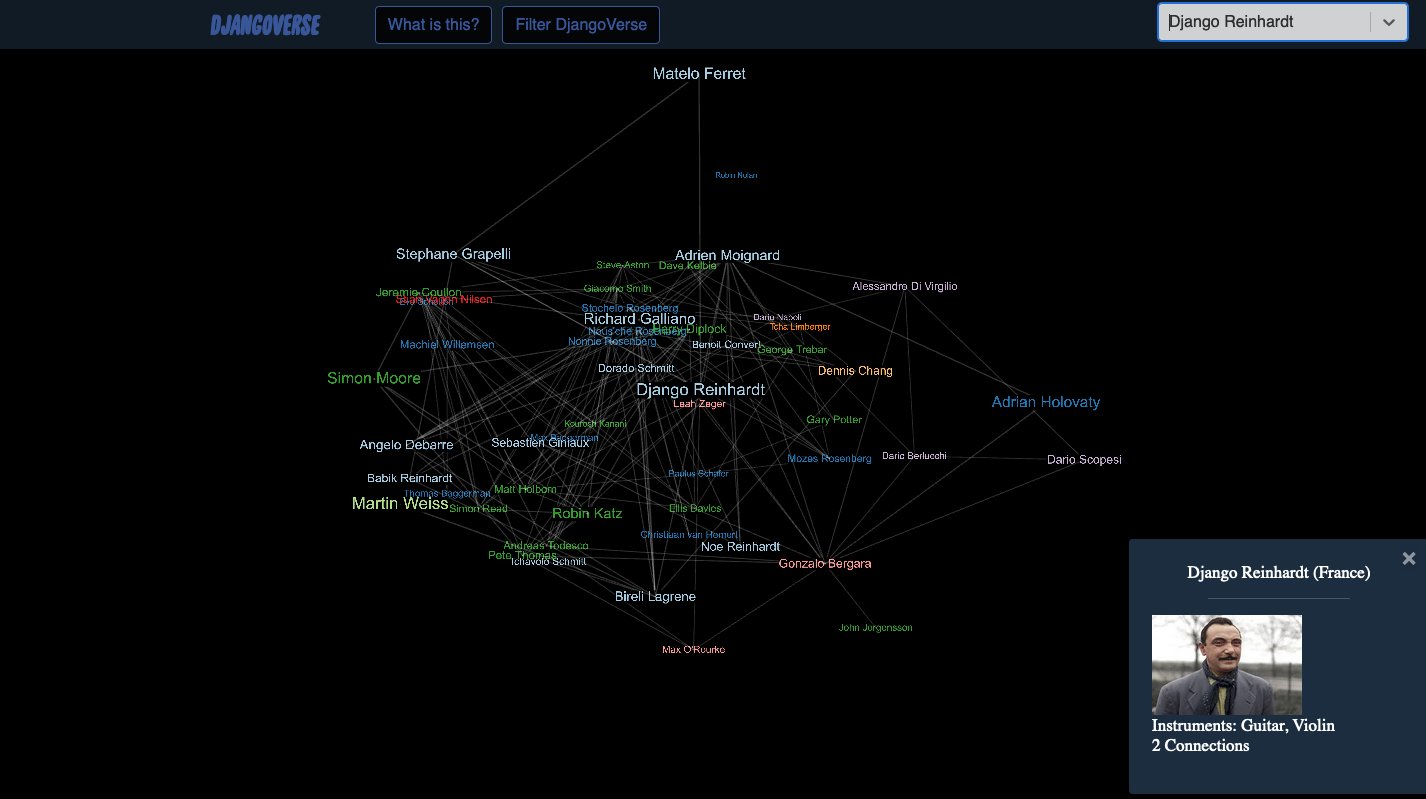
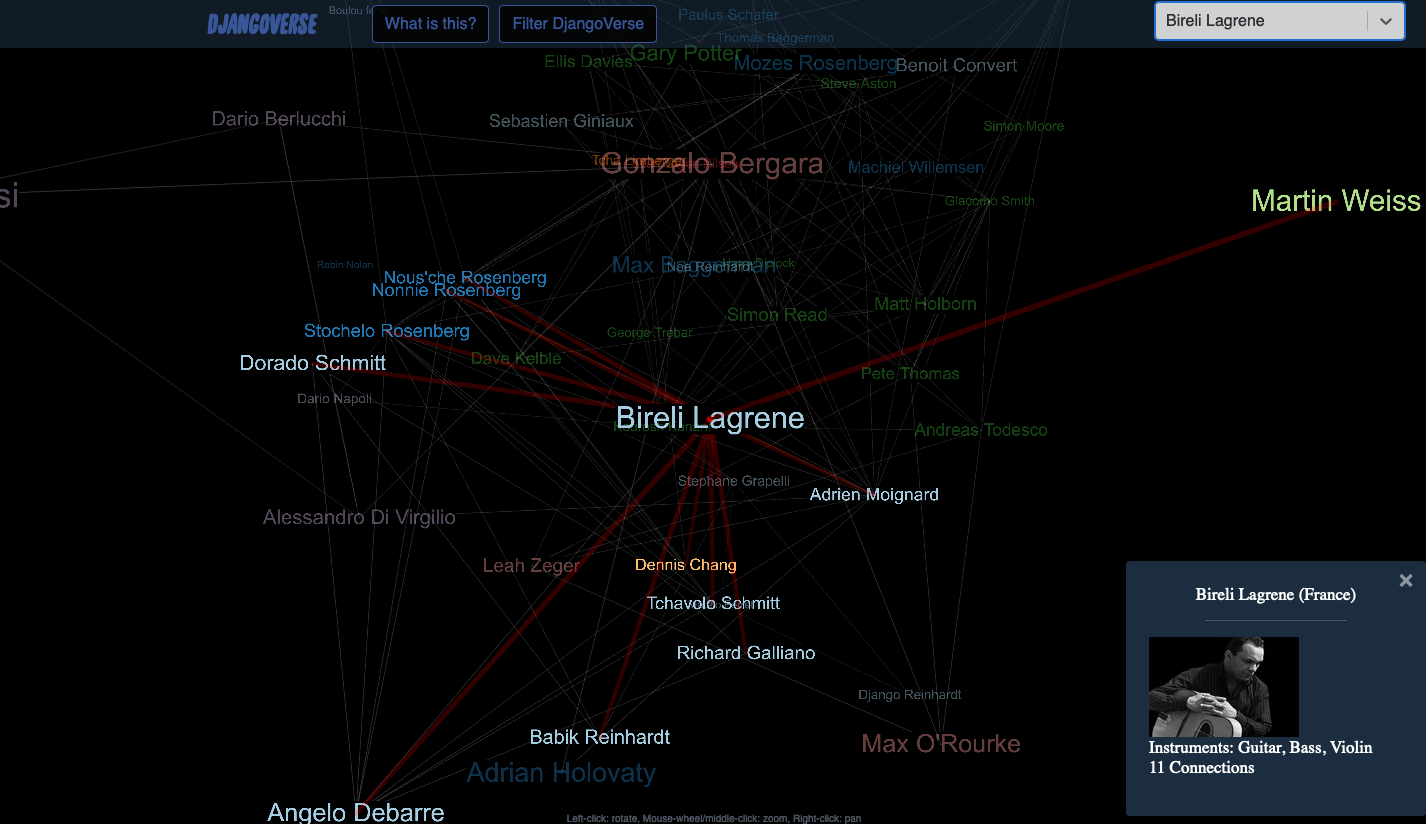
closing node info recentres the graph

diff --git a/src/index.js b/src/index.js
@@ -84,9 +84,7 @@ class DjangoVerse extends React.Component {
     }
     }
 
-  reloadGraph(newQueryParams) {
-    // Callback: only reload graph after updated params
-    this.setState({queryParams: newQueryParams}, () => this.componentDidMount(false));
+  reCentreCamera(){
     const zValue = Math.cbrt(this.state.gypsyJazzScene.nodes.length)*150;
     this.fg.cameraPosition(
       { x: 0, y: 0, z:  zValue}, // reposition the camera
@@ -97,6 +95,22 @@ class DjangoVerse extends React.Component {
       nodeInfo: null,
       selectedOption: null,
     });
+  }
+
+  reloadGraph(newQueryParams) {
+    // Callback: only reload graph after updated params
+    this.setState({queryParams: newQueryParams}, () => this.componentDidMount(false));
+    this.reCentreCamera();
+    // const zValue = Math.cbrt(this.state.gypsyJazzScene.nodes.length)*150;
+    // this.fg.cameraPosition(
+    //   { x: 0, y: 0, z:  zValue}, // reposition the camera
+    //   { x: 0, y: 0, z: 0}, // look at the center
+    //   2500  // ms transition duration
+    // );
+    // this.setState({
+    //   nodeInfo: null,
+    //   selectedOption: null,
+    // });
 
   }
 
@@ -173,11 +187,16 @@ class DjangoVerse extends React.Component {
 
   handleCloseNodeInfo(){
     this.setState({'nodeInfo': null});
+    this.state.gypsyJazzScene.nodes.forEach(function(e) {
+      e['highlightNode']=false; e['showNode']=true
+    })
+    this.reCentreCamera();
   }
   handleNavCloseNodeInfo(e){
     // Close NodeInfo when opening the hamburger in the NavBar (but not when closing it)
     if (e){
       this.setState({'nodeInfo': null}); 
+      this.state.gypsyJazzScene.nodes.forEach(function(e) {e['highlightNode']=false; e['showNode']=true})
     }
   }
 
